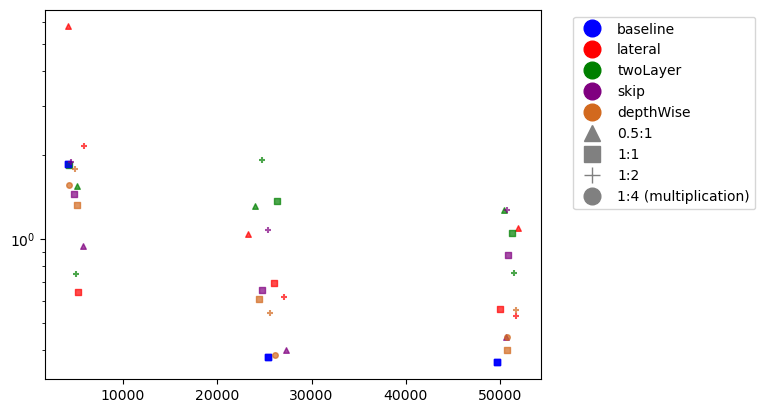
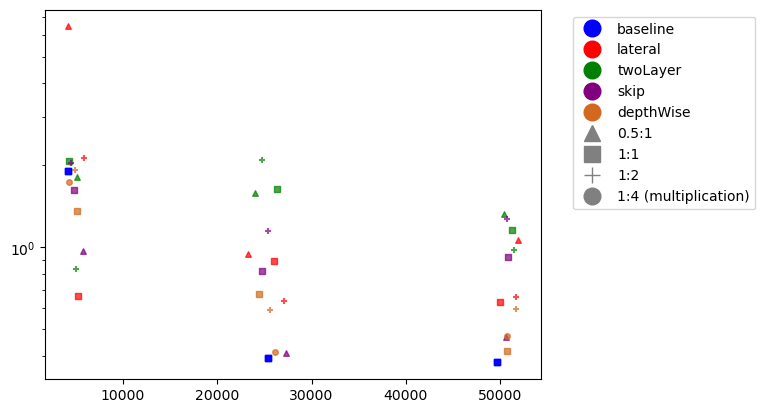
plot model performance

diff --git a/plots/plotFromDataframe.py b/plots/plotFromDataframe.py
@@ -212,7 +212,8 @@ for index, row in df.iterrows():
     modelName = row["name"]
     mult = row["mult"]
     param = row["param"]
-    loss = row["loss170"]
+    pathLoss = "loss"+str(horizon)
+    loss = row[pathLoss]
     ### get params exactly
     hs, ls = mapParas(modelName, mult, param)
     model = mapModel(modelName, hs, ls)
